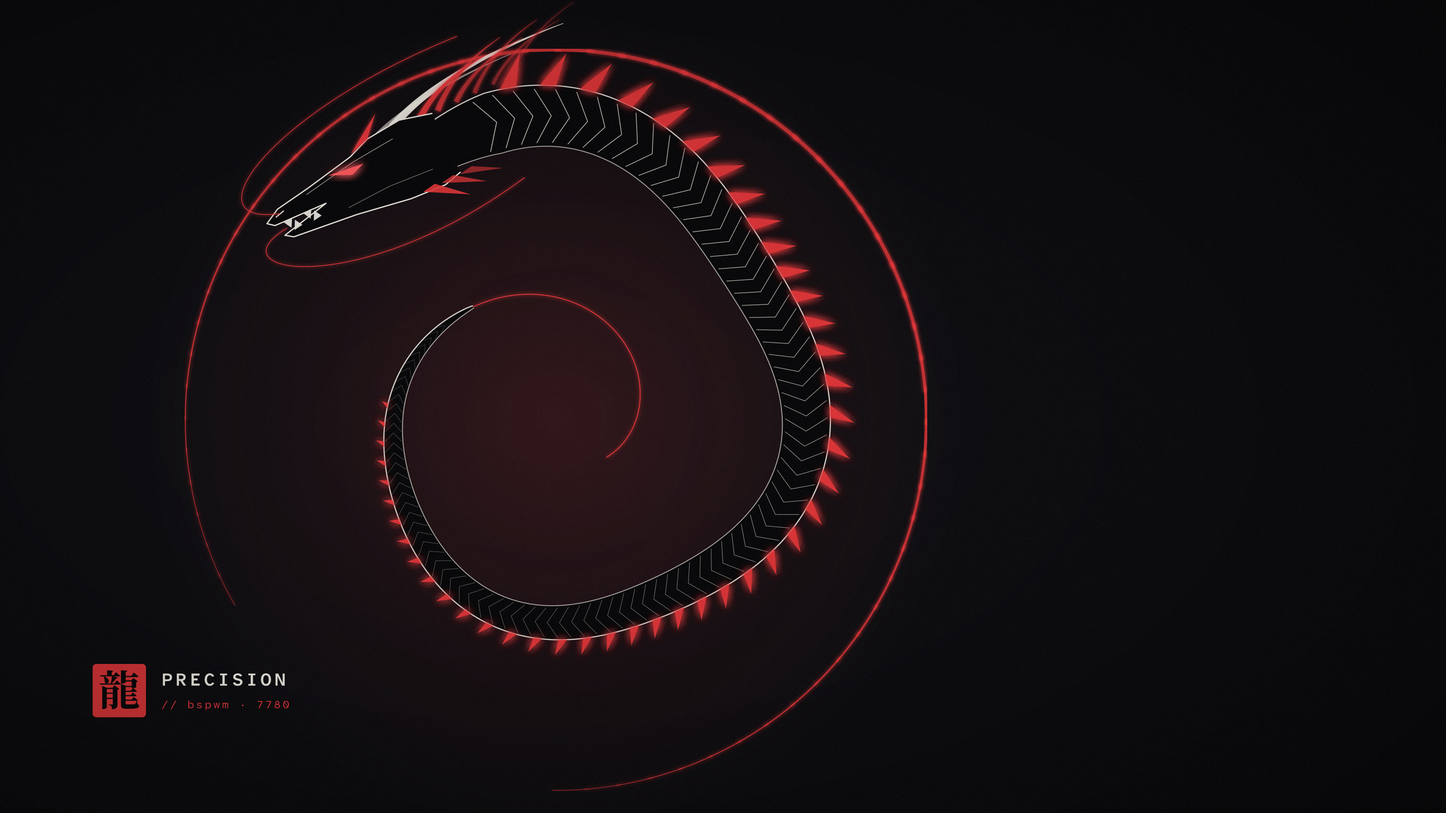
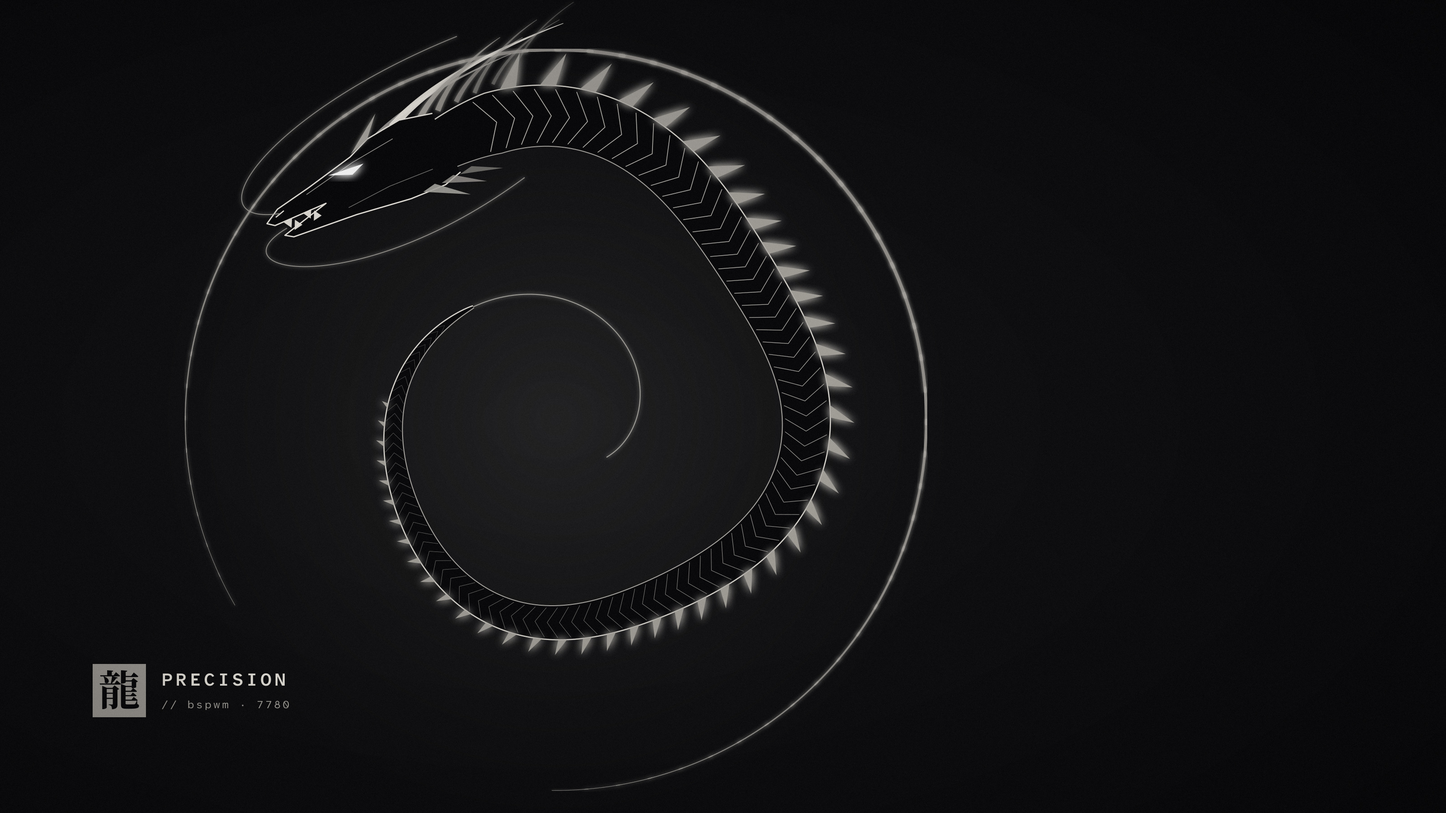
Rice: monochrome palette, sharp corners, borderless
- Red replaced by greyscale everywhere (polybar, conky, kitty, alacritty,
  tmux, rofi, dunst, i3lock, JARVIS bar icon, dragon wallpaper). Gauges get
  brighter with load; alarms (CPU/RAM/temp/GPU, live mic, JARVIS listening)
  are shown inverted (black on white) instead of coloured. Terminal ANSI hues
  kept but heavily desaturated so git/ls/diff stay readable.
- No rounded corners: polybar radius 0, picom corner-radius 0, conky panel,
  dunst, rofi and the wallpaper seal square.
- Borderless: bspwm border_width 0, no polybar/conky/dunst outlines.
- Calendar: today shown as an inverted square.

diff --git a/scripts/wallpaper/gen_dragon.py b/scripts/wallpaper/gen_dragon.py
@@ -1,8 +1,8 @@
 #!/usr/bin/env python3
-"""Minimal abstract dragon wallpaper (original design) — black / white / red.
+"""Minimal abstract dragon wallpaper (original design) — monochrome.
 
 A serpentine dragon coiled in a spiral: white line-art body with chevron scales,
-red dorsal spikes, red eye, thin red enso ring, small red seal with 龍.
+grey dorsal spikes, glowing white eye, thin enso ring, small white seal with 龍.
 The right ~22% stays empty for the conky HUD.
 
 Builds an SVG, renders it with rsvg-convert, then adds film grain with PIL.
@@ -23,7 +23,8 @@ OUT = Path(sys.argv[1]) if len(sys.argv) > 1 else ROOT / "assets/wallpaper/drago
 W, H = (int(v) for v in (sys.argv[2] if len(sys.argv) > 2 else "3200x1800").split("x"))
 S = W / 3200
 
-RED, RED_HI, WHITE, BG0, BG1 = "#e5383b", "#ff5a5f", "#ece8e1", "#0a0a0c", "#121216"
+# monochrome: "RED" names kept for the accent role, values are greys
+RED, RED_HI, WHITE, BG0, BG1 = "#a9a6a0", "#ffffff", "#ece8e1", "#0a0a0c", "#131315"
 
 # ------------------------------------------------------------------ spine
 CX, CY = 1230 * S, 930 * S            # coil centre (left of the HUD column)
@@ -60,8 +61,8 @@ add(f'''<defs>
     <stop offset="0" stop-color="{BG1}"/><stop offset="1" stop-color="{BG0}"/>
   </radialGradient>
   <radialGradient id="halo" cx="0.5" cy="0.5" r="0.5">
-    <stop offset="0" stop-color="{RED}" stop-opacity="0.16"/>
-    <stop offset="0.6" stop-color="{RED}" stop-opacity="0.05"/>
+    <stop offset="0" stop-color="{WHITE}" stop-opacity="0.07"/>
+    <stop offset="0.6" stop-color="{WHITE}" stop-opacity="0.02"/>
     <stop offset="1" stop-color="{RED}" stop-opacity="0"/>
   </radialGradient>
   <filter id="glow" x="-50%" y="-50%" width="200%" height="200%">
@@ -229,7 +230,7 @@ for k, sgn in enumerate((1, -1)):
 
 # ------------------------------------------------------------------ seal + caption
 sx, sy, ss = 205 * S, H - 330 * S, 118 * S
-add(f'<rect x="{sx:.0f}" y="{sy:.0f}" width="{ss:.0f}" height="{ss:.0f}" rx="{8 * S:.0f}" fill="{RED}" opacity="0.92"/>')
+add(f'<rect x="{sx:.0f}" y="{sy:.0f}" width="{ss:.0f}" height="{ss:.0f}" fill="{RED}" opacity="0.92"/>')
 add(f'<text x="{sx + ss / 2:.0f}" y="{sy + ss * 0.78:.0f}" font-family="Noto Serif CJK JP, Noto Sans CJK JP" '
     f'font-weight="700" font-size="{ss * 0.78:.0f}" fill="{BG0}" text-anchor="middle">龍</text>')
 add(f'<text x="{sx + ss + 34 * S:.0f}" y="{sy + 48 * S:.0f}" font-family="Atkinson Hyperlegible Mono" '
